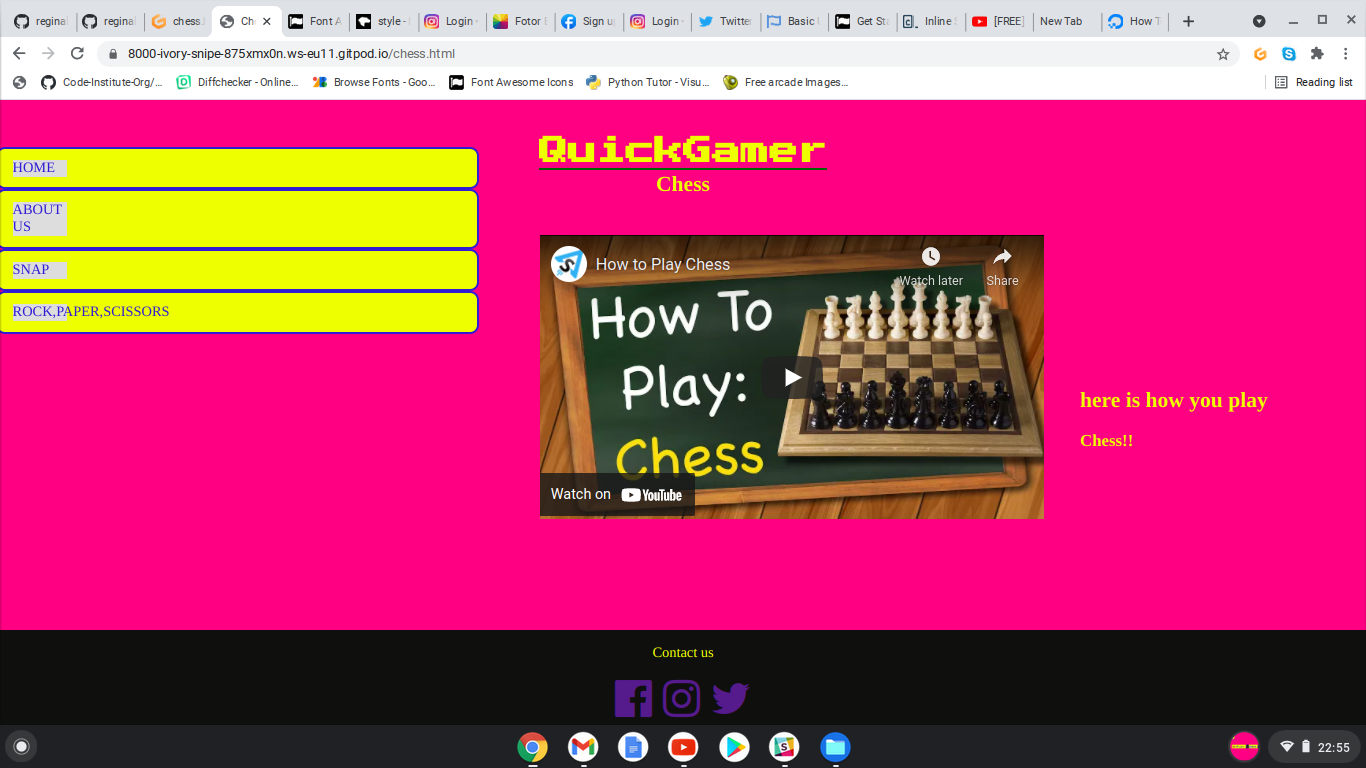
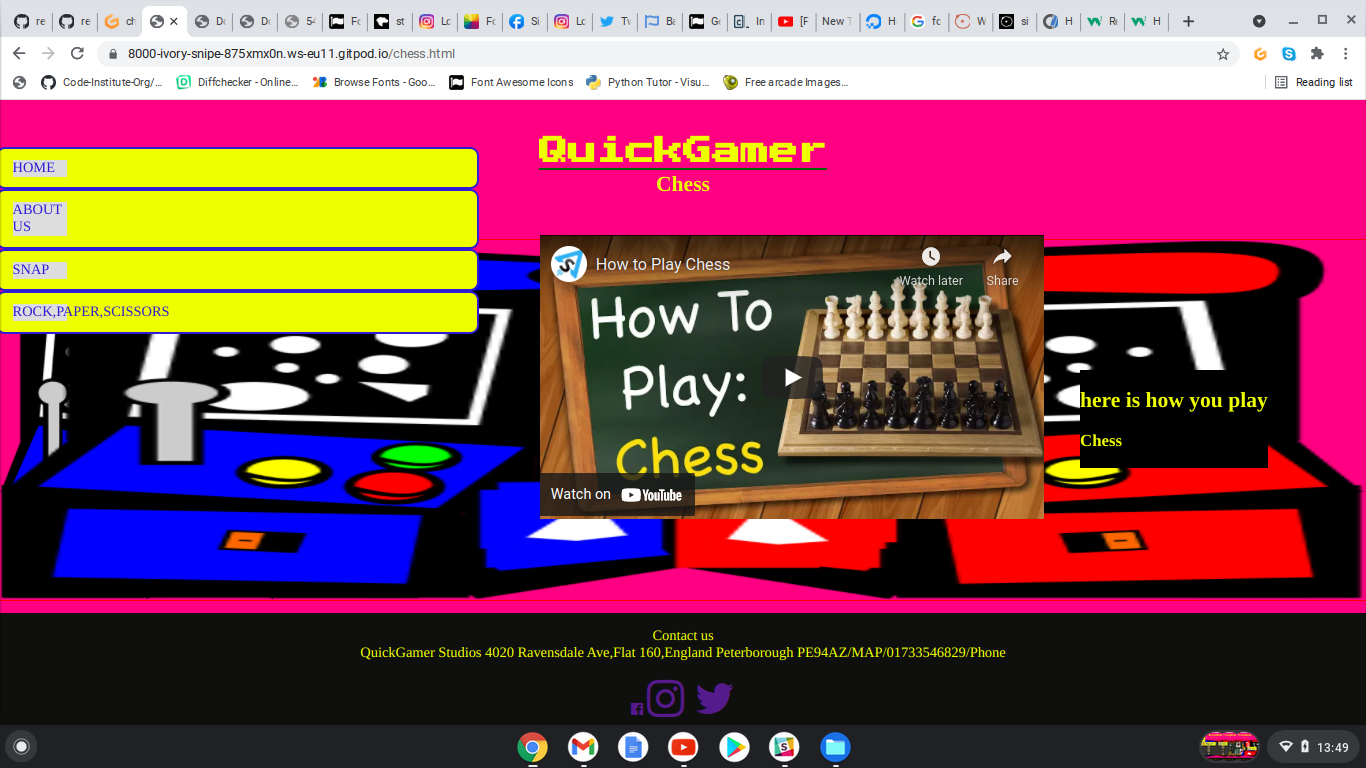
positioning all pages

diff --git a/chess.html b/chess.html
@@ -33,7 +33,7 @@
         <li><a href="rock.paper.scissors.html">Rock,Paper,Scissors</a></li>
       </ul>
      </div>
-     <div style="position: fixed; left: 1200px; top: 300px;">
+     <div style="position: fixed; left: 1200px; top: 300px; background-color: black;">
          <h2>here is how you play</h2>
          <h3>Chess</h3>
      </div>
